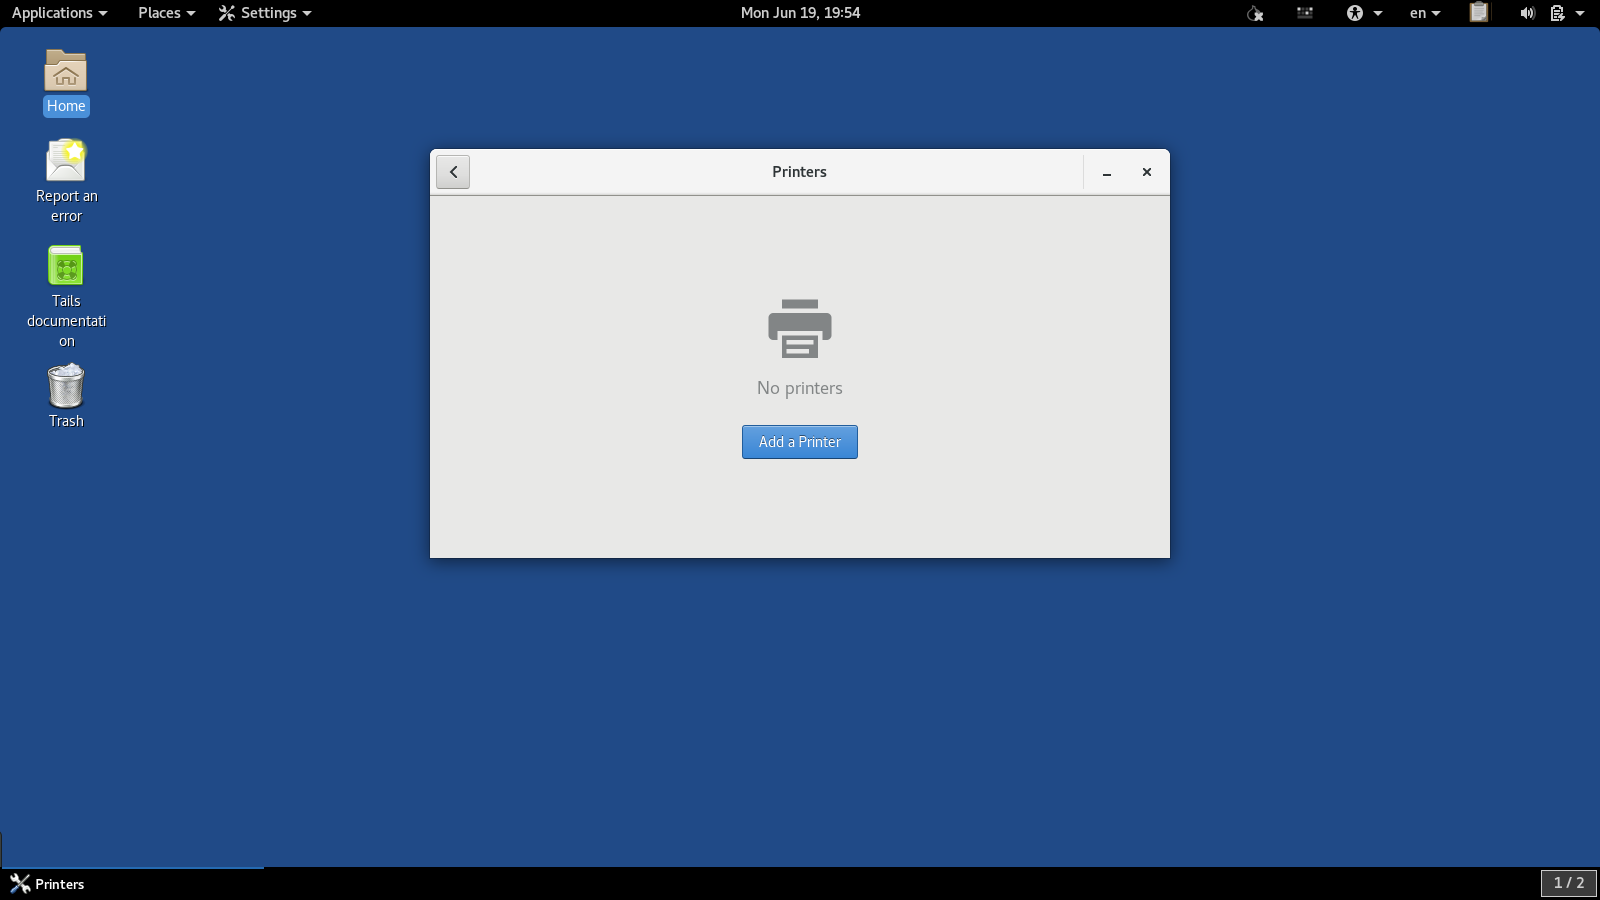
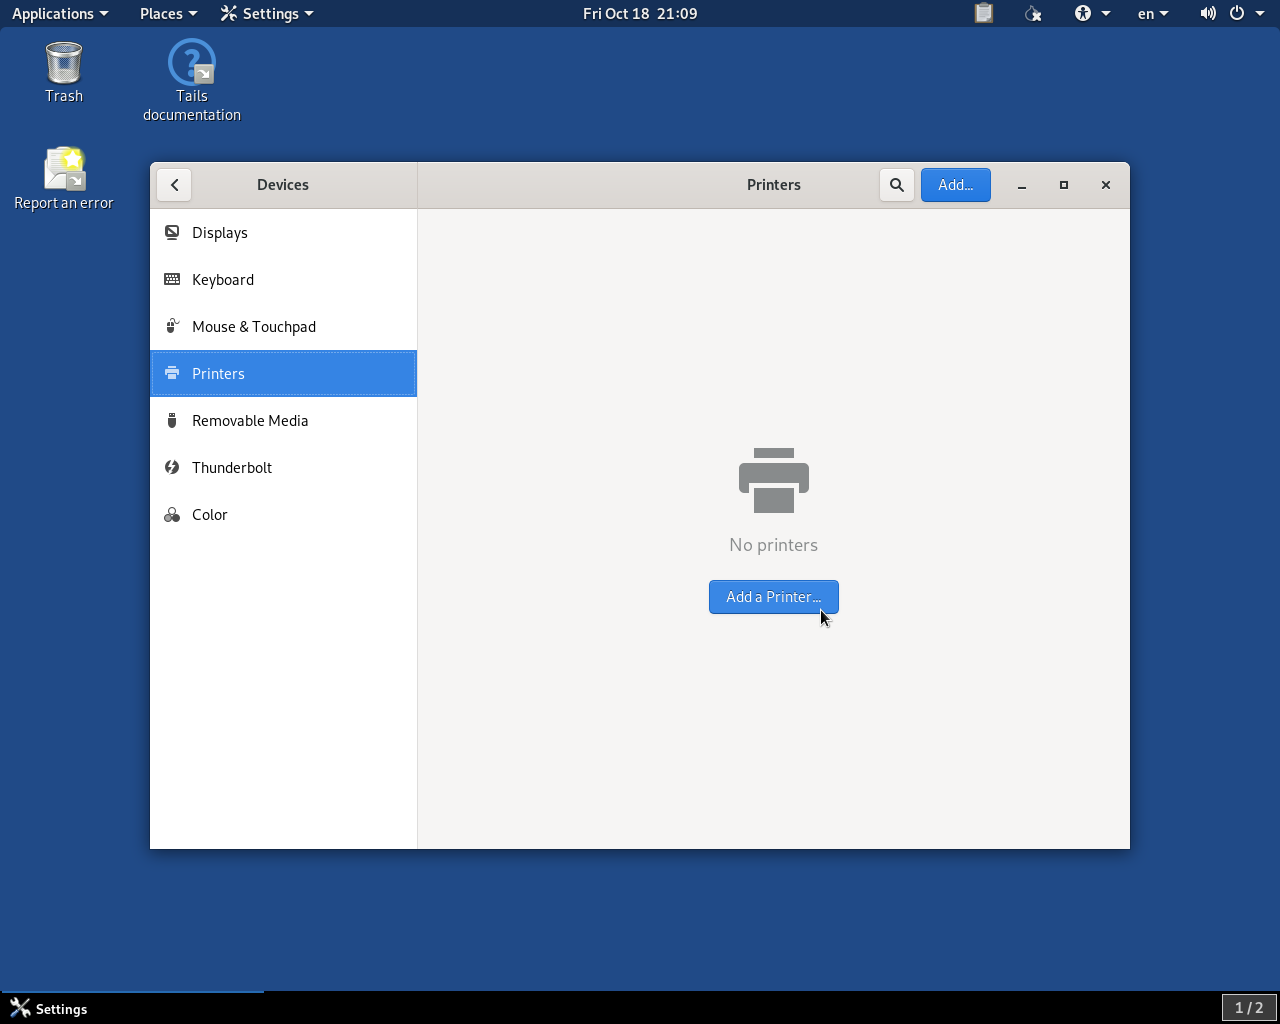
Update printer & SVS setup guide for Tails 4
Printer guide:
- Printer settings are in a different location in settings
- Updated screenshots

SVS setup:
- Date & time are in a different location in settings
- It is no longer necessary to disable automatic decompression as
  it is disabled by default

diff --git a/docs/tails_printing_guide.rst b/docs/tails_printing_guide.rst
@@ -6,7 +6,7 @@ Setting Up a Printer in Tails
 Because Tails is supposed to be as **amnesiac** as possible, you want to
 shield your Tails stick from any extra inputs from, and outputs to, a
 potentially untrusted network. This is why **we strongly recommend using
-a printer that does not have WiFi or Bluetooth**, and hooking up to it
+a printer that does not have WiFi or Bluetooth**, and connecting to it
 using a regular USB cable to print.
 
 Finding a printer that works with Tails can be challenging because Tails is
@@ -36,59 +36,52 @@ increase the chances for a seamless installation experience in Tails.
 In any case, this document outlines the usual set of steps that we follow when
 attempting to use a new printer with Tails.
 
-.. note:: While, as of Tails 3, it's no longer necessary to have admin
-   privileges in order to install or configure printers, we recommend that you
-   set an admin passphrase and unlock your persistent volume; this ensures that
-   the printer's installation and configuration settings persist after every
-   reboot, so you don't have to reinstall it each time you start Tails.
-
 Installing and Printing via the Tails GUI
 -----------------------------------------
 
-Let's look at Tails 3.0's typical flow for installing a USB-connected printer.
-If you've enabled persistence, boot with your persistent volume, and set an
-admin passphrase. Connect the printer to your Tails-booted computer via USB,
-then turn the printer on.
+Let's look at the flow in Tails 4 for installing a USB-connected printer.
+On the Tails welcome screen, unlock your persistent volume, and
+`set an admin password <https://tails.boum.org/doc/first_steps/startup_options/administration_password/index.en.html>`__.
+This ensures that you won't have to reinstall the printer each time you start
+Tails.
+
+Connect the printer to your Tails-booted computer via USB, then turn the printer
+on.
 
 Now, you'll want to single-click your way through **Applications** ▸
-**System Tools** ▸ **Settings** ▸ **Printers**.
+**System Tools** ▸ **Settings** ▸ **Devices** ▸ **Printers**. The screenshot
+below highlights the "Devices" section in which the printer settings can be
+found:
 
-|select printer from settings|
+|select devices from settings|
 
-In this example, we'll assume that this is the first time we've tried to install
-a printer, which will show the following:
+If this is the first time you've tried to install a printer, the "Printers"
+section will look like this:
 
 |add printer|
 
-Click **Add a Printer**. By doing so, you'll now get a list of printers that Tails
-has auto-detected. You should now see this:
+Click **Add a Printer**. After a brief period during which Tails searches for
+printers, you should see a list of printers that Tails has auto-detected:
 
 |select printer to add|
 
-In this example, we've connected an HP DeskJet F4200. Clicking on this printer
-will select it for installation, which, if successful, will display the
-following:
+In this example, we've connected an HP ENVY-5530 (not a model we recommend for
+production use). Clicking on this printer will select it for installation. The
+installation can take a few seconds, during which it looks like nothing is
+happening.
 
-|printer installing|
-
-This indicates that Tails is attempting to install the USB printer. Assuming you
-receive no errors in this process, you will then see the following screen,
-which indicates that the printer is "ready" for printing.
+Assuming you receive no errors in this process, you will then see a screen like
+the following one, which indicates that the printer is ready for printing.
 
 |printer ready|
-
-
-
-
-
 
 Printing from the Command Line
 ------------------------------
 
-You can also easily print from the command line using the ``lp`` command; if
-you haven't already set your installed printer as default in the GUI, you can
-quickly do so by adding this line to your ``~/.bashrc`` file, or entering this
-directly into the terminal:
+After you have configured your printer, you can also easily print from the
+command line using the ``lp`` command. If you haven't already set your installed
+printer as default in the GUI, you can quickly do so by adding this line to your
+``~/.bashrc`` file, or entering this directly into the terminal:
 
 .. code:: sh
 
@@ -113,7 +106,6 @@ it's equally straightforward from the command line, if you prefer that
 environment.
 
 .. |select printer to add| image:: images/printer_setup_guide/select_printer_to_add.png
-.. |select printer from settings| image:: images/printer_setup_guide/select_printer_from_settings.png
+.. |select devices from settings| image:: images/printer_setup_guide/select_devices_from_settings.png
 .. |printer ready| image:: images/printer_setup_guide/printer_ready.png
-.. |printer installing| image:: images/printer_setup_guide/printer_installing.png
 .. |add printer| image:: images/printer_setup_guide/add_printer.png

diff --git a/docs/set_up_svs.rst b/docs/set_up_svs.rst
@@ -42,14 +42,6 @@ click **Add**, then click **Start Tails**.
 
 We will now prepare the *Secure Viewing Station*.
 
-Ensure Filenames are Preserved
-------------------------------
-
-In order to preserve filenames when you decrypt submissions, on each *Secure
-Viewing Station*, you should open a **Terminal** and type the following commands:
-
-.. include:: includes/tails-svs-nautilus.txt
-
 Correct the System Time
 -----------------------
 
@@ -62,7 +54,7 @@ To set the system time:
 
 #. Click the upper right down arrow in the menu bar and select the wrench icon:
    |select settings|
-#. Then click **Date & Time**.
+#. Select the **Details** section, then click **Date & Time**.
 #. Click **Unlock**. Type in the admin password you set when you
    started up Tails.
 #. Set the correct time, region and city.
